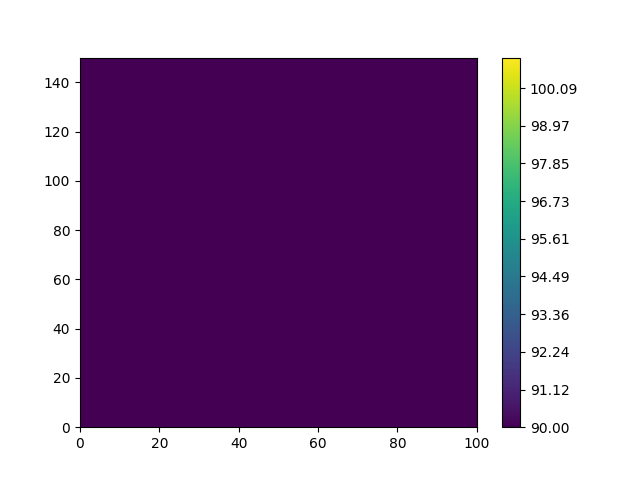
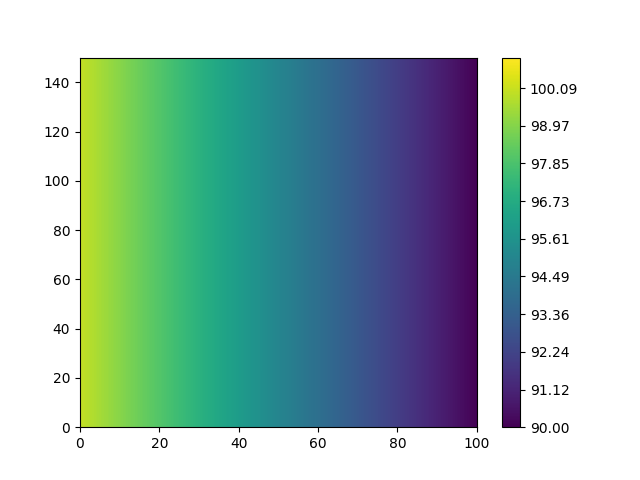
writing and reading from a file

diff --git a/paint.py b/paint.py
@@ -1,74 +1,29 @@
 import numpy as np
 import matplotlib.pyplot as plt
 
+f = open('data.txt')
 
-l = 100
-h0 = 150
-dx = 2.5
-dy = 2.5
-h1 = 90
-h2 = 90
-x = [0]
-y = [0]
+h = []
+x = []
+y = []
 i = 0
-while i<l:
-    i+=dx
-    x.append(i)
-i = 0
-while i<h0:
-    i+=dy
-    y.append(i)
-N = len(x)
-M = len(y)
-print(N, M)
 
-h = [[(h1+h2)/2]*N for i in range (M)]
-for i in range(M):
-    h[i][0] = h1
-    h[i][N-1] = h2
+s = f.readline().split()
+for q in s: x.append(float(q))
 
-#обращаться надо h[y][x]
+s = f.readline().split()
+for q in s: y.append(float(q))
 
-h_1 = [(h1+h2)/2]*N #фиктивные узлы на -1
-h_M = [(h1+h2)/2]*N #фиктивные узлы на M+1
 
-e = 0.00001
-e0 = 10
-h_old = 0
-max_iter = 10000
-for iter in range(max_iter):
-    e0=0
-    #пересчет фиктивных точек снизу
-    for i in range(N):
-        h_1[i] = h[1][i]
-    #пересчет дна
-    for j in range(1,N-1):
-        h_old = h[0][j]
-        h[0][j] = ((h[0][j-1]+h[0][j+1])*dy/dx + 2*h[1][j])/(2*(dy/dx) + 2)
-        e0 = max(e0, abs(h_old - h[0][j]))
-    #пересчет основных точек
-    for i in range (1,M-1):
-        for j in range(1,N-1):
-            h_old = h[i][j]
-            h[i][j] = ((h[i][j-1]+h[i][j+1])*dy/dx + h[i-1][j] + h[i+1][j])/(2*(dy/dx) + 2)
-            e0 = max(e0, abs(h_old - h[i][j]))
-    #пересчет крышки
-    for j in range(1,N-1):
-        h_old = h[-1][j]
-        h[-1][j] = ((h[-1][j-1]+h[-1][j+1])*dy/dx + 2*h[-2][j])/(2*(dy/dx) + 2)
-        e0 = max(e0, abs(h_old - h[-1][j]))
-    #пересчет фиктивных точек сверху
-    for i in range(N):
-        h_M[i] = h[-2][i]
-        # Проверка сходимости
+for line in f:
+    s = line.split()
+    h.append([])
+    for q in s: h[i].append(float(q))
+    i+=1
+N = len(h[0])
+M = len(h)
 
-    if (iter == 0 or iter == 9 or iter == 99 or iter == 999):
-        print(f"Iter {iter + 1} : {h[M // 2][N // 2]}")
-    if e0 < e:
-        print(f"Сошлось за {iter + 1} итераций")
-        break
-for i in range(M):
-    print(h[i])
+
 X,Y = np.meshgrid(x,y)
 
 levels = np.linspace(90, 101, 256)  # 256 оттенков между 2 и 10

diff --git a/raschet.cpp b/raschet.cpp
@@ -11,11 +11,11 @@ int h0 = 150;
 double dx = 2.5;
 double dy = 2.5;
 int h1 = 100;
-int h2 = 90;
+int h2 =90;
 std::vector<double> x(1);
 std::vector<double> y(1);
 
-int i = 0;
+double i = 0;
 
 while (i<l) {
     i=i+dx;
@@ -96,7 +96,7 @@ for (int iter = 0; iter<max_iter; iter++) {
     }
 }
 
-std::ofstream file("/mnt/d/university/gydra/data.txt");
+std::ofstream file("data.txt");
 
 if (!file.is_open()) {
     std::cerr << "Ошибка открытия файла!" << std::endl;
@@ -104,6 +104,18 @@ if (!file.is_open()) {
 }
 
 file << std::fixed << std::setprecision(5);
+
+for (int i =0; i<N; i++) {
+    file << x[i] << " ";
+}
+
+file << std::endl; 
+
+for (int i =0; i<M; i++) {
+    file << y[i] << " ";
+}
+
+file << std::endl; 
 
 for(int i = 0; i<M; i++ ) {
     for (int j = 0; j<N; j++) {
